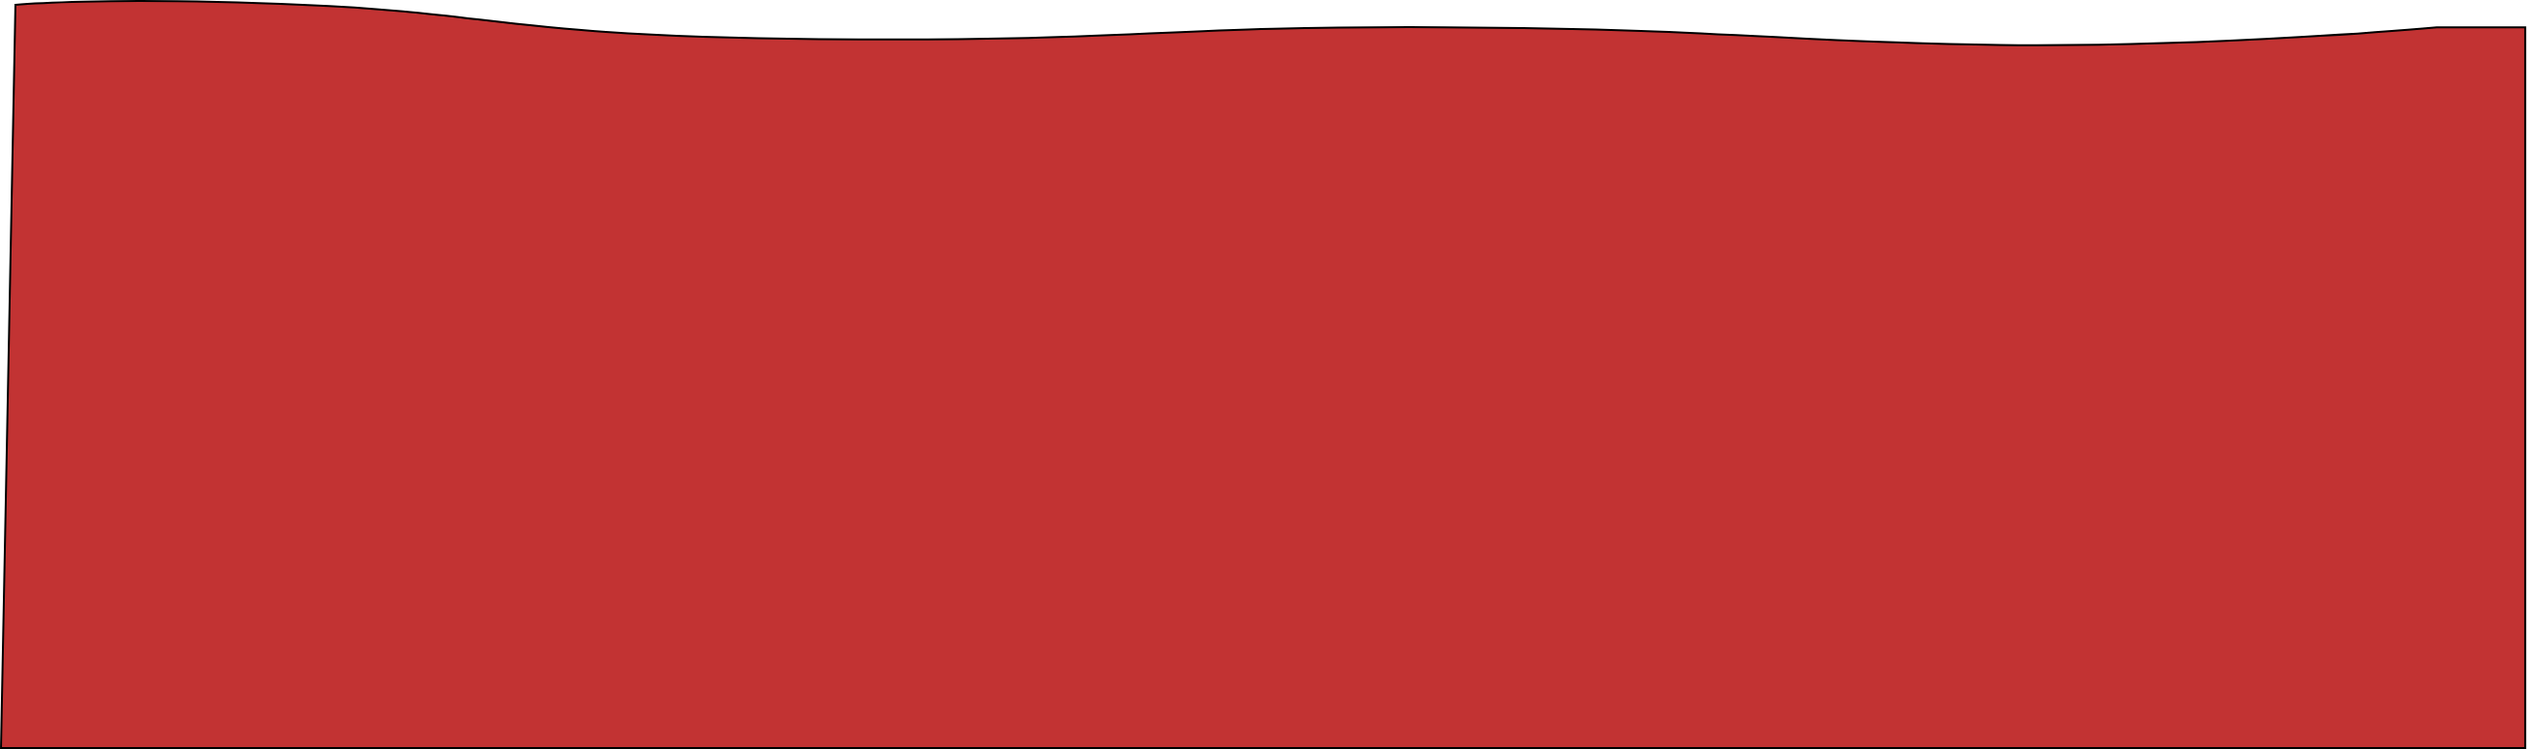
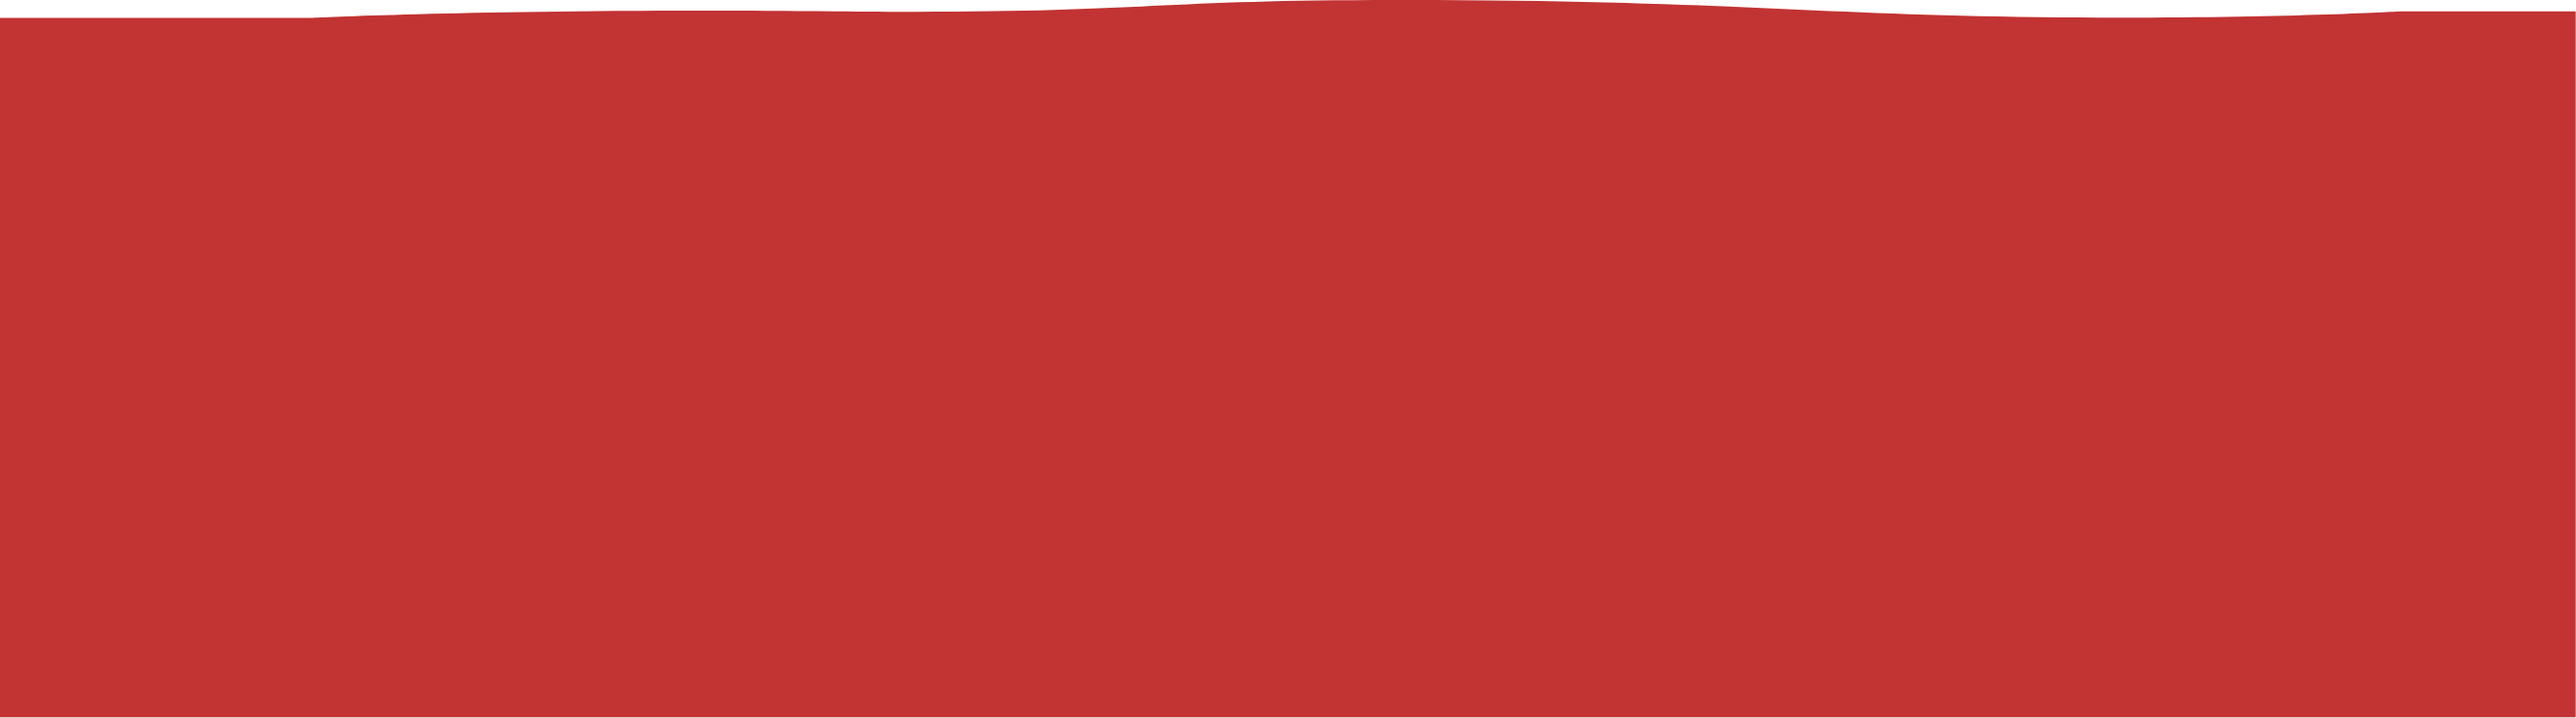
-added section backgrounds

Changed region(s): [[0.0, 0.0, 1.0, 1.0]]

diff --git a/app/scss/style.css b/app/scss/style.css
@@ -303,12 +303,7 @@ h3 {
 
 .footer__item {
   padding-bottom: 15px;
-}
-
-@media (min-width: 40em) {
-  .footer__item {
-    min-width: 400px;
-  }
+  min-width: 400px;
 }
 
 .footer__copyright {
@@ -364,11 +359,17 @@ h3 {
 }
 
 .segment--bgRed {
-  background-color: #C23333;
+  background-image: url("/img/Path 4@2x.png");
+  background-repeat: no-repeat;
+  background-size: cover;
+  margin-bottom: -5px;
 }
 
 .segment--bgBlue {
   background-color: #488195;
+  background-image: url("/img/Path 5@2x.png");
+  background-repeat: no-repeat;
+  background-size: cover;
 }
 
 .segment--footerBlue {

diff --git a/app/scss/module/_segment.scss b/app/scss/module/_segment.scss
@@ -1,10 +1,17 @@
 .segment {
 
     &--bgRed {
-        background-color: $brightRed;
+        //background-color: $brightRed;
+        background-image: url('/img/Path\ 4@2x.png');
+        background-repeat: no-repeat;
+        background-size: cover;
+        margin-bottom: -5px;
     }
     &--bgBlue {
         background-color: $darkBlue;
+        background-image: url('/img/Path\ 5@2x.png');
+        background-repeat: no-repeat;
+        background-size: cover;
     }
     &--footerBlue {
         background-color: $footerBlue;

diff --git a/app/scss/layout/_footer.scss b/app/scss/layout/_footer.scss
@@ -6,15 +6,12 @@
     &__grid {
         @include breakpoint-up(large){
             display: flex;
-            //align-items: center;
         }
     }
 
     &__item {
         padding-bottom: 15px;
-        @include breakpoint-up(medium){
-            min-width: 400px;
-        }
+        min-width: 400px;
     }
 
     &__copyright {
